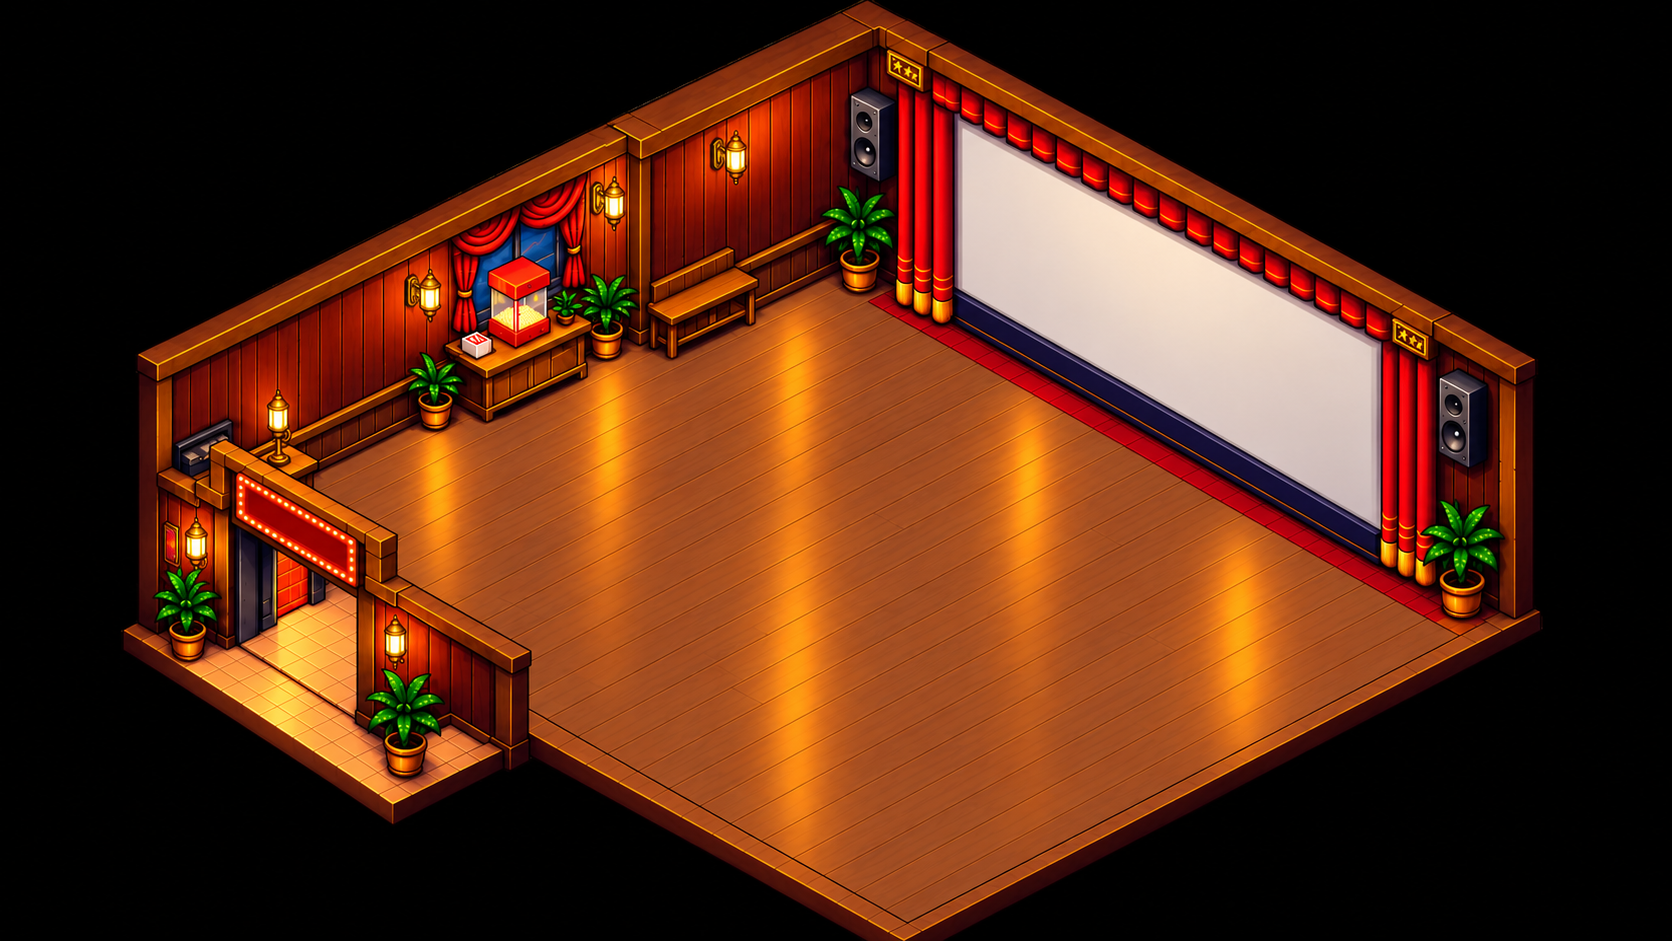
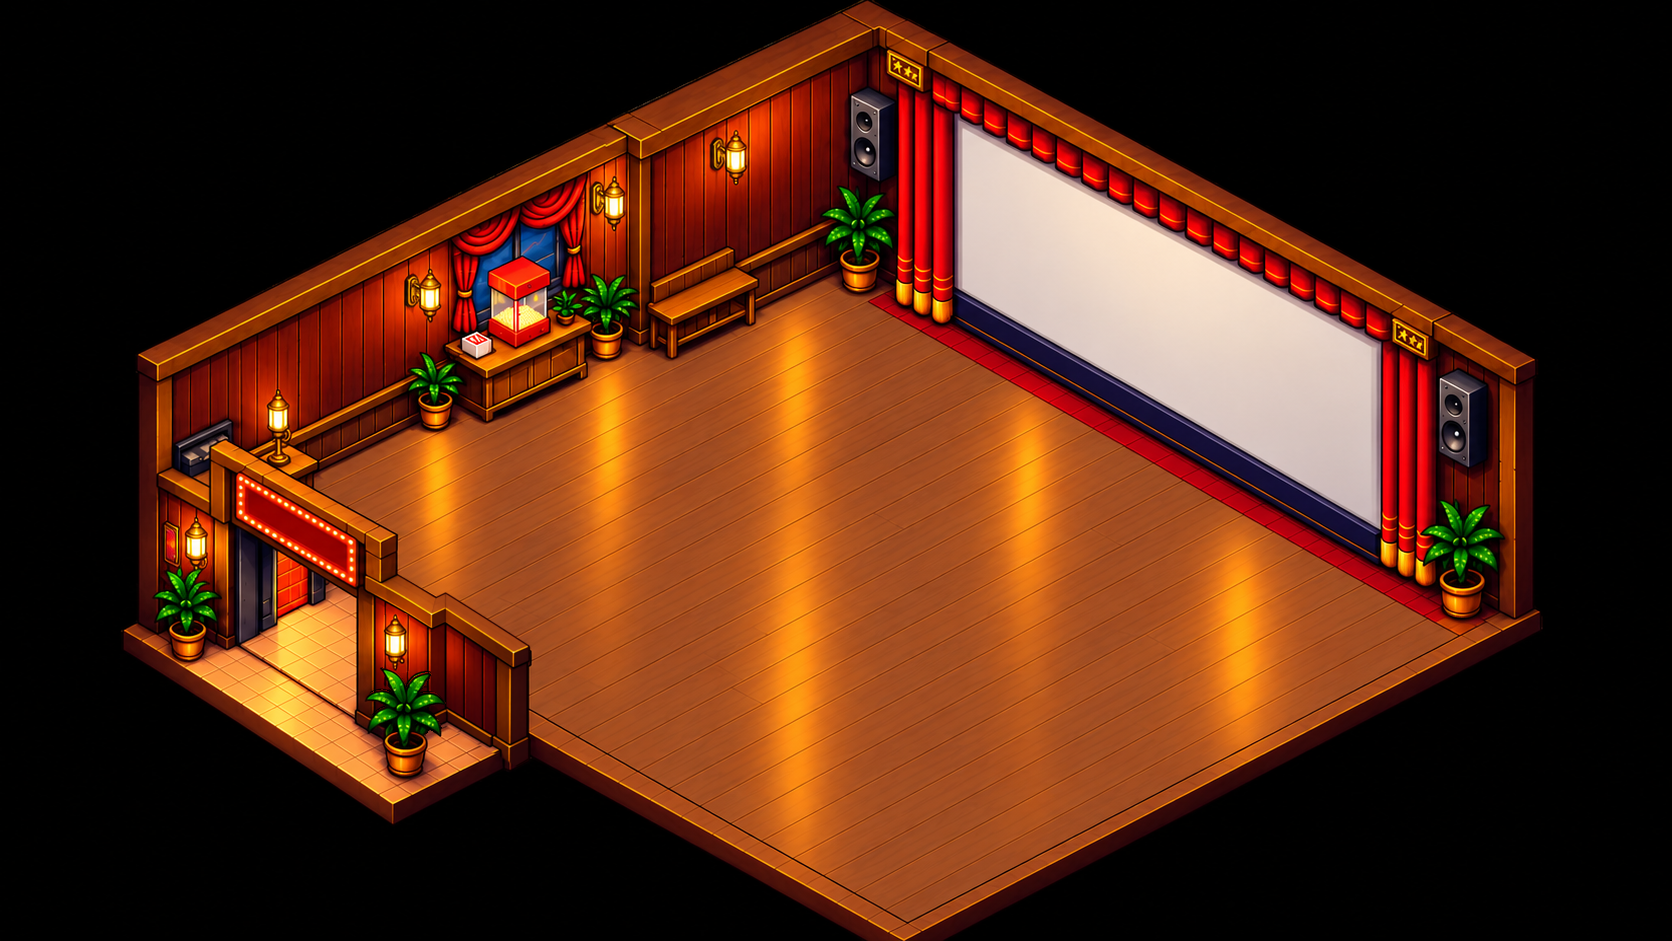
Align entrance beam and complete the right partition corner

Changed region(s): [[0.2177, 0.6164, 0.311, 0.8013], [0.0933, 0.4931, 0.1555, 0.5547]]

diff --git a/js/layout.js b/js/layout.js
@@ -113,8 +113,10 @@
       [157, 466],
       [210, 441],
       [398, 534],
-      [398, 584],
-      [531, 649],
+      [398, 573],
+      [438, 598],
+      [449, 593],
+      [533, 647],
       [531, 769],
       [513, 779],
       [357, 722],
@@ -125,10 +127,14 @@
     lintel: [
       [210, 441],
       [398, 534],
-      [398, 584],
-      [531, 649],
-      [531, 672],
-      [398, 607],
+      [398, 573],
+      [438, 598],
+      [449, 593],
+      [533, 647],
+      [533, 670],
+      [449, 616],
+      [438, 621],
+      [398, 596],
       [357, 588],
       [237, 530],
       [210, 514]

diff --git a/tests/run_tests.py b/tests/run_tests.py
@@ -578,10 +578,13 @@ def main():
         masks = pg.evaluate("""() => {
             const scene=__cinema.renderer.scene, fg=scene.fg.getContext('2d'), header=scene.lintel.getContext('2d');
             const alpha=(ctx,x,y)=>{const p=VC.Layout.artPoint(x,y);return ctx.getImageData(Math.round(p.x*2),Math.round(p.y*2),1,1).data[3];};
-            return {opening:alpha(fg,298,620),wall:alpha(fg,440,690),header:alpha(header,300,500)};
+            return {opening:alpha(fg,298,620),wall:alpha(fg,440,690),header:alpha(header,300,500),
+                corner:alpha(fg,450,605),cornerHeader:alpha(header,450,605)};
         }""")
         check('16. doorway stays open while facade and lintel occlude the actor',
               masks['opening']==0 and masks['wall']>240 and masks['header']>240, json.dumps(masks))
+        check('16a. raised wall-return cap also occludes passing viewers',
+              masks['corner']>240 and masks['cornerHeader']>240, json.dumps(masks))
         rails = pg.evaluate("""() => {
             const caps=[];const ctx={beginPath(){},moveTo(){},lineTo(){},closePath(){},fill(){},stroke(){},fillRect(x,y){caps.push([x,y]);}};
             VC.Art.railings(ctx);
